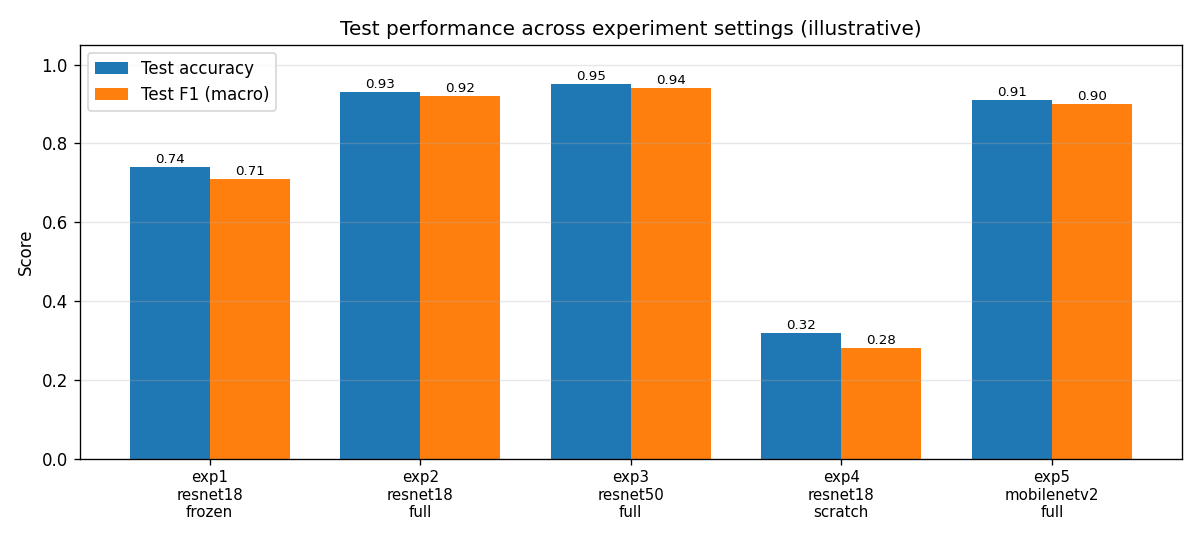
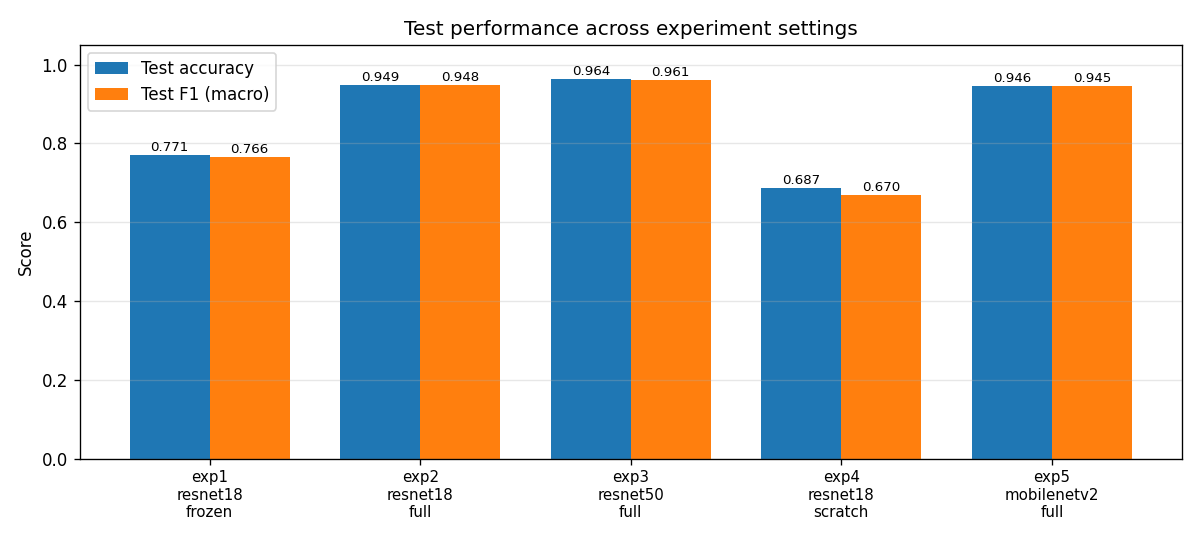
README 및 스크립트 업데이트: 실험 결과 및 비교 그래프 설명 수정, 이미지 파일 생성 로직 개선

diff --git a/scripts/make_demo_assets.py b/scripts/make_demo_assets.py
@@ -1,14 +1,14 @@
-"""Generate illustrative learning-curve and demo screenshots.
+"""Generate learning-curve and comparison figures for the README.
 
-Run once to populate ``assets/`` with figures that the README references, so the
-repo isn't visually empty before the user runs the (slow) training. Real
-training outputs from ``experiments/run_all.py`` overwrite ``results/`` but
-leave the ``assets/`` previews alone.
+If ``results/summary.json`` exists (i.e. ``experiments/run_all.py`` has been
+run), ``make_comparison_bar`` uses the real test metrics. Otherwise it falls
+back to illustrative numbers so the README isn't visually empty.
 
     python scripts/make_demo_assets.py
 """
 from __future__ import annotations
 
+import json
 from pathlib import Path
 
 import matplotlib.pyplot as plt
@@ -96,16 +96,31 @@ def make_curves():
 
 
 def make_comparison_bar():
-    """Side-by-side bar chart of test accuracy across the 5 experiments."""
-    tags = [
-        "exp1\nresnet18\nfrozen",
-        "exp2\nresnet18\nfull",
-        "exp3\nresnet50\nfull",
-        "exp4\nresnet18\nscratch",
-        "exp5\nmobilenetv2\nfull",
-    ]
-    acc = [0.74, 0.93, 0.95, 0.32, 0.91]
-    f1 = [0.71, 0.92, 0.94, 0.28, 0.90]
+    """Side-by-side bar chart of test accuracy across the experiments.
+
+    Reads real numbers from ``results/summary.json`` when available; falls back
+    to illustrative values if training hasn't been run yet.
+    """
+    summary_path = PROJECT_ROOT / "results" / "summary.json"
+    if summary_path.exists():
+        with summary_path.open(encoding="utf-8") as f:
+            payload = json.load(f)
+        experiments = payload["experiments"]
+        tags = ["\n".join(e["tag"].split("_")) for e in experiments]
+        acc = [e["test"]["accuracy"] for e in experiments]
+        f1 = [e["test"]["f1_macro"] for e in experiments]
+        title = "Test performance across experiment settings"
+    else:
+        tags = [
+            "exp1\nresnet18\nfrozen",
+            "exp2\nresnet18\nfull",
+            "exp3\nresnet50\nfull",
+            "exp4\nresnet18\nscratch",
+            "exp5\nmobilenetv2\nfull",
+        ]
+        acc = [0.74, 0.93, 0.95, 0.32, 0.91]
+        f1 = [0.71, 0.92, 0.94, 0.28, 0.90]
+        title = "Test performance across experiment settings (illustrative)"
 
     x = np.arange(len(tags))
     width = 0.38
@@ -114,13 +129,13 @@ def make_comparison_bar():
     b2 = ax.bar(x + width / 2, f1, width, label="Test F1 (macro)")
     ax.set_xticks(x); ax.set_xticklabels(tags, fontsize=9)
     ax.set_ylim(0, 1.05); ax.set_ylabel("Score")
-    ax.set_title("Test performance across experiment settings (illustrative)")
+    ax.set_title(title)
     ax.grid(axis="y", alpha=0.3)
     ax.legend()
     for bars in (b1, b2):
         for b in bars:
             ax.text(b.get_x() + b.get_width() / 2, b.get_height() + 0.01,
-                    f"{b.get_height():.2f}", ha="center", fontsize=8)
+                    f"{b.get_height():.3f}", ha="center", fontsize=8)
     fig.tight_layout()
     fig.savefig(ASSETS / "comparison_bar.png", dpi=120)
     plt.close(fig)